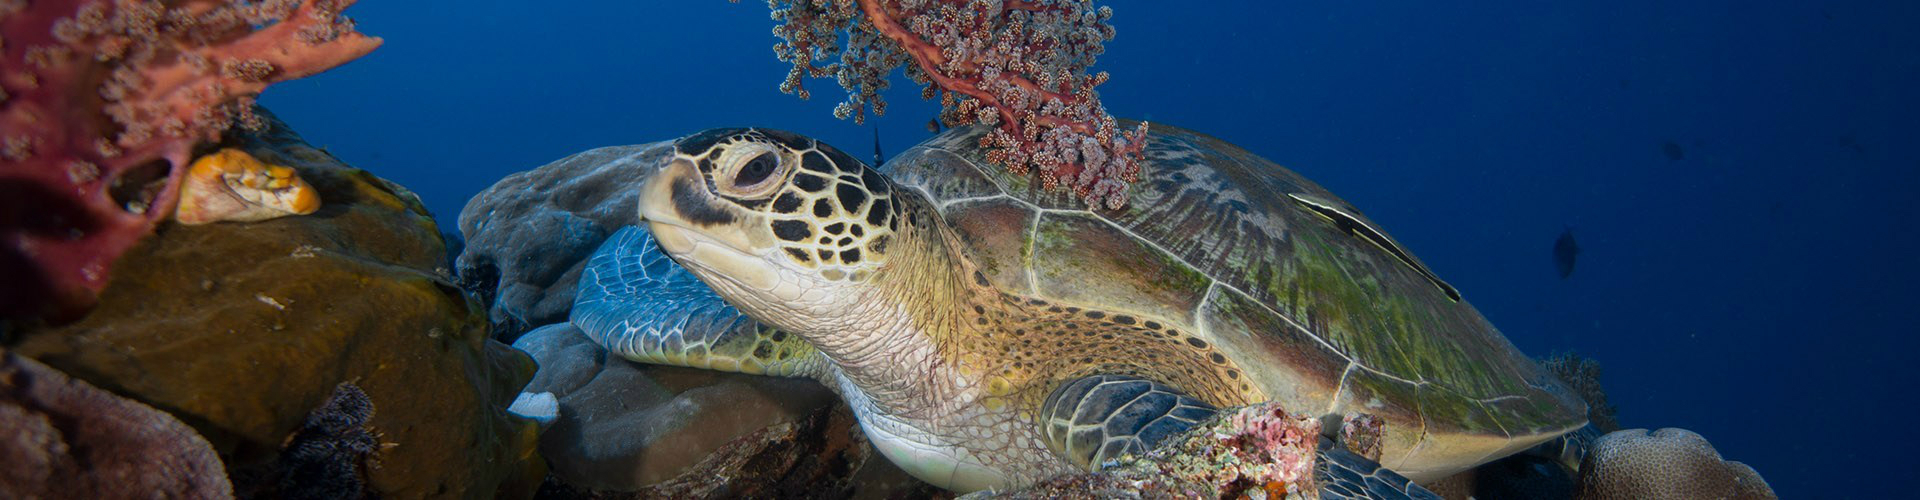
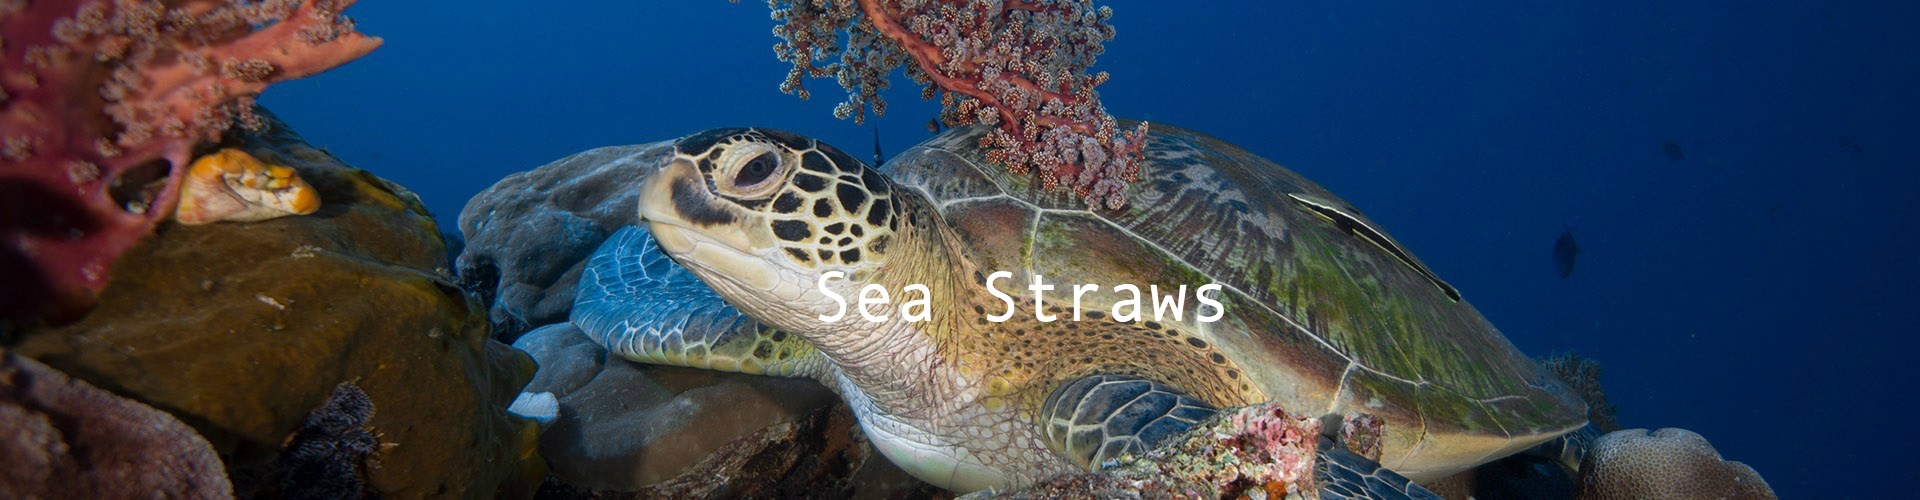
updated index

Changed region(s): [[0.4062, 0.54, 0.6562, 0.66]]

diff --git a/index.html b/index.html
@@ -23,10 +23,12 @@
   <a href="#contact" class="w3-bar-item w3-button">Contact</a>
 </div>
 
-<div class="w3-container">
-</div>
-<img src="img/cover-turtle.jpg" alt="Sea Straws" style="width:100%">
-        <div class="centered"></div>
+
+         <img src="img/cover-turtle.jpg" alt="cover-turtle" style="width:100%">
+    
+        
+        
+       
         <h3 class="w3-center w3-padding-32 header-text" id="home">PURPOSE</h3>
 
         <p class="w3-padding-large"> The main reason cited for eliminating plastic straws is their negative impact on our oceans and marine wildlife. Plastic in the ocean is a huge problem- look no further than trash island, or the viral video of a turtle suffering as a result of ocean pollution, to understand that. But of all the plastic that ends up in the ocean, straws make up only four percent of that waste. The problem is their size. They are small and inconspicuous. So much that people often forget they are plastic and do not recycle them. Straws that do get recycled often don't make it through the mechanical recycling sorter because they are so small and lightweight. So they contaminate recycling loads or get disposed of as garbage. So, knowing that most straws, recycled or not are likely to end up in our oceans, and knowing the amount of straws being used every day, individuals cutting back on use can make a difference.</p>

diff --git a/css/style-001.css b/css/style-001.css
@@ -74,4 +74,3 @@ body, html {
 
 
 
-
